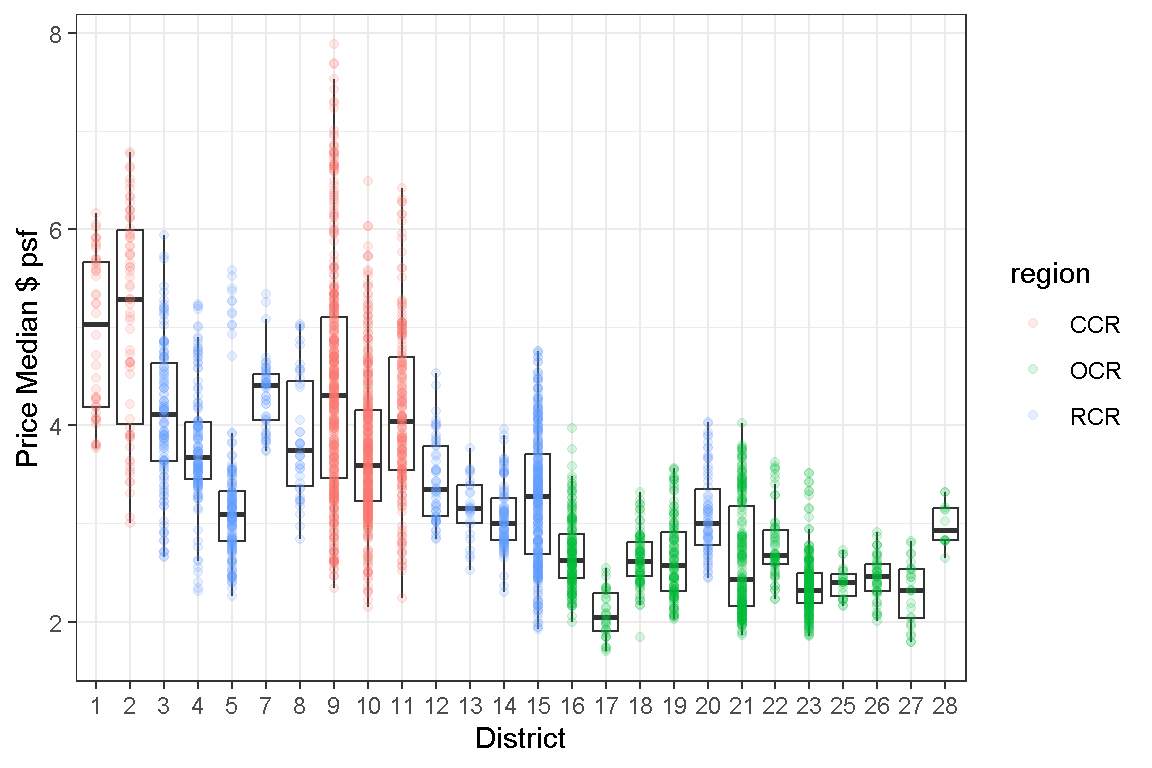
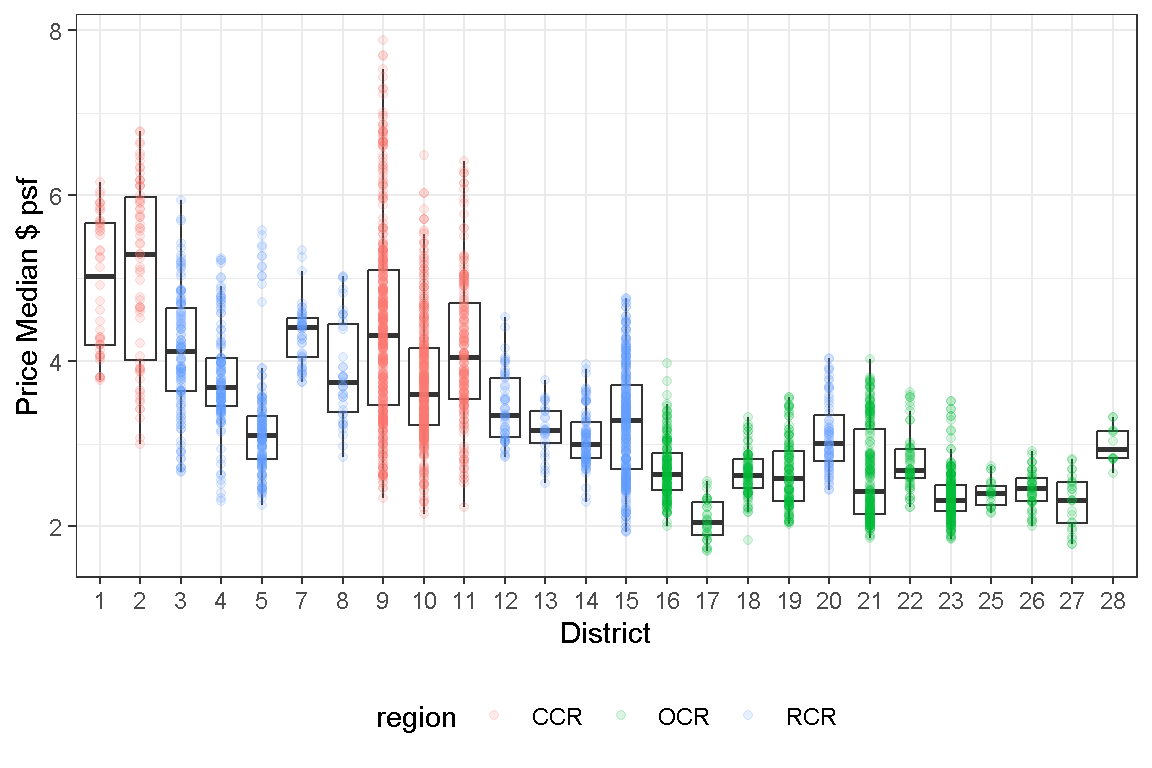
ml3

diff --git a/docs/ml/2024-02-09-hdb-rental-prices/index.html b/docs/ml/2024-02-09-hdb-rental-prices/index.html
@@ -90,6 +90,7 @@ code span.wa { color: #5e5e5e; font-style: italic; } /* Warning */
   <!--radix_placeholder_meta_tags-->
 <title>maRk's blog: HDB Rental Prices</title>
 
+<meta property="description" itemprop="description" content="Let&#39;s try and predict the mediaa rental price per sqft of HDA flats given information about their location, age, distance to MRT station...."/>
 
 <link rel="canonical" href="https://yeokcmark.netlify.app/ml/2024-02-09-hdb-rental-prices/"/>
 
@@ -101,6 +102,7 @@ code span.wa { color: #5e5e5e; font-style: italic; } /* Warning */
 <!--  https://developers.facebook.com/docs/sharing/webmasters#markup -->
 <meta property="og:title" content="maRk&#39;s blog: HDB Rental Prices"/>
 <meta property="og:type" content="article"/>
+<meta property="og:description" content="Let&#39;s try and predict the mediaa rental price per sqft of HDA flats given information about their location, age, distance to MRT station...."/>
 <meta property="og:url" content="https://yeokcmark.netlify.app/ml/2024-02-09-hdb-rental-prices/"/>
 <meta property="og:image" content="https://yeokcmark.netlify.app/ml/2024-02-09-hdb-rental-prices/hdb-rental-prices_files/figure-html5/unnamed-chunk-13-1.png"/>
 <meta property="og:image:width" content="1152"/>
@@ -111,6 +113,7 @@ code span.wa { color: #5e5e5e; font-style: italic; } /* Warning */
 <!--  https://dev.twitter.com/cards/types/summary -->
 <meta property="twitter:card" content="summary_large_image"/>
 <meta property="twitter:title" content="maRk&#39;s blog: HDB Rental Prices"/>
+<meta property="twitter:description" content="Let&#39;s try and predict the mediaa rental price per sqft of HDA flats given information about their location, age, distance to MRT station...."/>
 <meta property="twitter:url" content="https://yeokcmark.netlify.app/ml/2024-02-09-hdb-rental-prices/"/>
 <meta property="twitter:image" content="https://yeokcmark.netlify.app/ml/2024-02-09-hdb-rental-prices/hdb-rental-prices_files/figure-html5/unnamed-chunk-13-1.png"/>
 <meta property="twitter:image:width" content="1152"/>
@@ -126,7 +129,7 @@ code span.wa { color: #5e5e5e; font-style: italic; } /* Warning */
   <!--radix_placeholder_rmarkdown_metadata-->
 
 <script type="text/json" id="radix-rmarkdown-metadata">
-{"type":"list","attributes":{"names":{"type":"character","attributes":{},"value":["title","author","date","categories","output","citation_url","canonical_url"]}},"value":[{"type":"character","attributes":{},"value":["HDB Rental Prices"]},{"type":"list","attributes":{},"value":[{"type":"list","attributes":{"names":{"type":"character","attributes":{},"value":["name"]}},"value":[{"type":"character","attributes":{},"value":["Mark Y"]}]}]},{"type":"character","attributes":{},"value":["2024-02-09"]},{"type":"character","attributes":{},"value":["regression","linear regression","random forest","knn","xgboost"]},{"type":"list","attributes":{"names":{"type":"character","attributes":{},"value":["distill::distill_article"]}},"value":[{"type":"list","attributes":{"names":{"type":"character","attributes":{},"value":["toc","toc_depth","toc_float","self_contained"]}},"value":[{"type":"logical","attributes":{},"value":[true]},{"type":"integer","attributes":{},"value":[6]},{"type":"logical","attributes":{},"value":[true]},{"type":"logical","attributes":{},"value":[false]}]}]},{"type":"character","attributes":{},"value":["https://yeokcmark.netlify.app/ml/2024-02-09-hdb-rental-prices/"]},{"type":"character","attributes":{},"value":["https://yeokcmark.netlify.app/ml/2024-02-09-hdb-rental-prices/"]}]}
+{"type":"list","attributes":{"names":{"type":"character","attributes":{},"value":["title","description","author","date","categories","output","citation_url","canonical_url"]}},"value":[{"type":"character","attributes":{},"value":["HDB Rental Prices"]},{"type":"character","attributes":{},"value":["Let's try and predict the mediaa rental price per sqft of HDA flats given information about their location, age, distance to MRT station...."]},{"type":"list","attributes":{},"value":[{"type":"list","attributes":{"names":{"type":"character","attributes":{},"value":["name"]}},"value":[{"type":"character","attributes":{},"value":["Mark Y"]}]}]},{"type":"character","attributes":{},"value":["2024-02-09"]},{"type":"character","attributes":{},"value":["regression","linear regression","random forest","knn","xgboost"]},{"type":"list","attributes":{"names":{"type":"character","attributes":{},"value":["distill::distill_article"]}},"value":[{"type":"list","attributes":{"names":{"type":"character","attributes":{},"value":["toc","toc_depth","toc_float","self_contained"]}},"value":[{"type":"logical","attributes":{},"value":[true]},{"type":"integer","attributes":{},"value":[6]},{"type":"logical","attributes":{},"value":[true]},{"type":"logical","attributes":{},"value":[false]}]}]},{"type":"character","attributes":{},"value":["https://yeokcmark.netlify.app/ml/2024-02-09-hdb-rental-prices/"]},{"type":"character","attributes":{},"value":["https://yeokcmark.netlify.app/ml/2024-02-09-hdb-rental-prices/"]}]}
 </script>
 <!--/radix_placeholder_rmarkdown_metadata-->
   
@@ -26266,7 +26269,7 @@ date {
 <!--radix_placeholder_front_matter-->
 
 <script id="distill-front-matter" type="text/json">
-{"title":"HDB Rental Prices","authors":[{"author":"Mark Y","authorURL":"#","affiliation":"&nbsp;","affiliationURL":"#","orcidID":""}],"publishedDate":"2024-02-09T00:00:00.000+08:00","citationText":"Y, 2024"}
+{"title":"HDB Rental Prices","description":"Let's try and predict the mediaa rental price per sqft of HDA flats given information about their location, age, distance to MRT station....","authors":[{"author":"Mark Y","authorURL":"#","affiliation":"&nbsp;","affiliationURL":"#","orcidID":""}],"publishedDate":"2024-02-09T00:00:00.000+08:00","citationText":"Y, 2024"}
 </script>
 
 <!--/radix_placeholder_front_matter-->
@@ -26346,7 +26349,7 @@ Nikkei225
   <a href="../../ml.html#category:xgboost" class="dt-tag">xgboost</a>
 </div>
 <!--/radix_placeholder_categories-->
-
+<p><p>Let’s try and predict the mediaa rental price per sqft of HDA flats given information about their location, age, distance to MRT station….</p></p>
 </div>
 
 <div class="d-byline">
@@ -26466,7 +26469,8 @@ Nikkei225
 <span>  <span class='fu'>geom_point</span><span class='op'>(</span>alpha <span class='op'>=</span> <span class='fl'>0.15</span>, <span class='fu'>aes</span><span class='op'>(</span>color <span class='op'>=</span> <span class='va'>region</span><span class='op'>)</span><span class='op'>)</span><span class='op'>+</span></span>
 <span>  <span class='fu'>theme_bw</span><span class='op'>(</span><span class='op'>)</span> <span class='op'>+</span></span>
 <span>  <span class='fu'>labs</span><span class='op'>(</span>x <span class='op'>=</span> <span class='st'>"District"</span>,</span>
-<span>       y <span class='op'>=</span> <span class='st'>"Price Median $ psf"</span><span class='op'>)</span></span></code></pre>
+<span>       y <span class='op'>=</span> <span class='st'>"Price Median $ psf"</span><span class='op'>)</span><span class='op'>+</span></span>
+<span>  <span class='fu'>theme</span><span class='op'>(</span>legend.position <span class='op'>=</span> <span class='st'>"bottom"</span><span class='op'>)</span></span></code></pre>
 </div>
 <p><img src="hdb-rental-prices_files/figure-html5/unnamed-chunk-5-1.png" width="576" /></p>
 </div>
@@ -26478,7 +26482,7 @@ Nikkei225
 <span>             y <span class='op'>=</span> <span class='va'>price_median</span>,</span>
 <span>             color <span class='op'>=</span> <span class='va'>region</span><span class='op'>)</span></span>
 <span>         <span class='op'>)</span> <span class='op'>+</span></span>
-<span>  <span class='fu'>geom_point</span><span class='op'>(</span><span class='op'>)</span> <span class='op'>+</span></span>
+<span>  <span class='fu'>geom_point</span><span class='op'>(</span>alpha <span class='op'>=</span> <span class='fl'>0.2</span><span class='op'>)</span> <span class='op'>+</span></span>
 <span>  <span class='fu'>geom_smooth</span><span class='op'>(</span><span class='fu'>aes</span><span class='op'>(</span>color <span class='op'>=</span> <span class='va'>region</span><span class='op'>)</span>,</span>
 <span>              method <span class='op'>=</span> <span class='st'>"lm"</span><span class='op'>)</span><span class='op'>+</span></span>
 <span>  <span class='fu'>theme_bw</span><span class='op'>(</span><span class='op'>)</span><span class='op'>+</span></span>

diff --git a/_ml/2024-02-09-hdb-rental-prices/hdb-rental-prices.html b/_ml/2024-02-09-hdb-rental-prices/hdb-rental-prices.html
@@ -90,6 +90,7 @@ code span.wa { color: #5e5e5e; font-style: italic; } /* Warning */
   <!--radix_placeholder_meta_tags-->
   <title>HDB Rental Prices</title>
 
+  <meta property="description" itemprop="description" content="Let&#39;s try and predict the mediaa rental price per sqft of HDA flats given information about their location, age, distance to MRT station...."/>
 
 
   <!--  https://schema.org/Article -->
@@ -100,17 +101,19 @@ code span.wa { color: #5e5e5e; font-style: italic; } /* Warning */
   <!--  https://developers.facebook.com/docs/sharing/webmasters#markup -->
   <meta property="og:title" content="HDB Rental Prices"/>
   <meta property="og:type" content="article"/>
+  <meta property="og:description" content="Let&#39;s try and predict the mediaa rental price per sqft of HDA flats given information about their location, age, distance to MRT station...."/>
   <meta property="og:locale" content="en_US"/>
 
   <!--  https://dev.twitter.com/cards/types/summary -->
   <meta property="twitter:card" content="summary"/>
   <meta property="twitter:title" content="HDB Rental Prices"/>
+  <meta property="twitter:description" content="Let&#39;s try and predict the mediaa rental price per sqft of HDA flats given information about their location, age, distance to MRT station...."/>
 
   <!--/radix_placeholder_meta_tags-->
   <!--radix_placeholder_rmarkdown_metadata-->
 
   <script type="text/json" id="radix-rmarkdown-metadata">
-  {"type":"list","attributes":{"names":{"type":"character","attributes":{},"value":["title","author","date","categories","output"]}},"value":[{"type":"character","attributes":{},"value":["HDB Rental Prices"]},{"type":"list","attributes":{},"value":[{"type":"list","attributes":{"names":{"type":"character","attributes":{},"value":["name"]}},"value":[{"type":"character","attributes":{},"value":["Mark Y"]}]}]},{"type":"character","attributes":{},"value":["2024-02-09"]},{"type":"character","attributes":{},"value":["regression","linear regression","random forest","knn","xgboost"]},{"type":"list","attributes":{"names":{"type":"character","attributes":{},"value":["distill::distill_article"]}},"value":[{"type":"list","attributes":{"names":{"type":"character","attributes":{},"value":["toc","toc_depth","toc_float","self_contained"]}},"value":[{"type":"logical","attributes":{},"value":[true]},{"type":"integer","attributes":{},"value":[6]},{"type":"logical","attributes":{},"value":[true]},{"type":"logical","attributes":{},"value":[false]}]}]}]}
+  {"type":"list","attributes":{"names":{"type":"character","attributes":{},"value":["title","description","author","date","categories","output"]}},"value":[{"type":"character","attributes":{},"value":["HDB Rental Prices"]},{"type":"character","attributes":{},"value":["Let's try and predict the mediaa rental price per sqft of HDA flats given information about their location, age, distance to MRT station....\n"]},{"type":"list","attributes":{},"value":[{"type":"list","attributes":{"names":{"type":"character","attributes":{},"value":["name"]}},"value":[{"type":"character","attributes":{},"value":["Mark Y"]}]}]},{"type":"character","attributes":{},"value":["2024-02-09"]},{"type":"character","attributes":{},"value":["regression","linear regression","random forest","knn","xgboost"]},{"type":"list","attributes":{"names":{"type":"character","attributes":{},"value":["distill::distill_article"]}},"value":[{"type":"list","attributes":{"names":{"type":"character","attributes":{},"value":["toc","toc_depth","toc_float","self_contained"]}},"value":[{"type":"logical","attributes":{},"value":[true]},{"type":"integer","attributes":{},"value":[6]},{"type":"logical","attributes":{},"value":[true]},{"type":"logical","attributes":{},"value":[false]}]}]}]}
   </script>
   <!--/radix_placeholder_rmarkdown_metadata-->
   
@@ -1518,7 +1521,7 @@ code span.wa { color: #5e5e5e; font-style: italic; } /* Warning */
 <!--radix_placeholder_front_matter-->
 
 <script id="distill-front-matter" type="text/json">
-{"title":"HDB Rental Prices","authors":[{"author":"Mark Y","authorURL":"#","affiliation":"&nbsp;","affiliationURL":"#","orcidID":""}],"publishedDate":"2024-02-09T00:00:00.000+08:00","citationText":"Y, 2024"}
+{"title":"HDB Rental Prices","description":"Let's try and predict the mediaa rental price per sqft of HDA flats given information about their location, age, distance to MRT station....","authors":[{"author":"Mark Y","authorURL":"#","affiliation":"&nbsp;","affiliationURL":"#","orcidID":""}],"publishedDate":"2024-02-09T00:00:00.000+08:00","citationText":"Y, 2024"}
 </script>
 
 <!--/radix_placeholder_front_matter-->
@@ -1539,7 +1542,7 @@ code span.wa { color: #5e5e5e; font-style: italic; } /* Warning */
 <div class="dt-tag">xgboost</div>
 </div>
 <!--/radix_placeholder_categories-->
-
+<p><p>Let’s try and predict the mediaa rental price per sqft of HDA flats given information about their location, age, distance to MRT station….</p></p>
 </div>
 
 <div class="d-byline">
@@ -1659,7 +1662,8 @@ code span.wa { color: #5e5e5e; font-style: italic; } /* Warning */
 <span>  <span class='fu'>geom_point</span><span class='op'>(</span>alpha <span class='op'>=</span> <span class='fl'>0.15</span>, <span class='fu'>aes</span><span class='op'>(</span>color <span class='op'>=</span> <span class='va'>region</span><span class='op'>)</span><span class='op'>)</span><span class='op'>+</span></span>
 <span>  <span class='fu'>theme_bw</span><span class='op'>(</span><span class='op'>)</span> <span class='op'>+</span></span>
 <span>  <span class='fu'>labs</span><span class='op'>(</span>x <span class='op'>=</span> <span class='st'>"District"</span>,</span>
-<span>       y <span class='op'>=</span> <span class='st'>"Price Median $ psf"</span><span class='op'>)</span></span></code></pre>
+<span>       y <span class='op'>=</span> <span class='st'>"Price Median $ psf"</span><span class='op'>)</span><span class='op'>+</span></span>
+<span>  <span class='fu'>theme</span><span class='op'>(</span>legend.position <span class='op'>=</span> <span class='st'>"bottom"</span><span class='op'>)</span></span></code></pre>
 </div>
 <p><img src="hdb-rental-prices_files/figure-html5/unnamed-chunk-5-1.png" width="576" /></p>
 </div>
@@ -1671,7 +1675,7 @@ code span.wa { color: #5e5e5e; font-style: italic; } /* Warning */
 <span>             y <span class='op'>=</span> <span class='va'>price_median</span>,</span>
 <span>             color <span class='op'>=</span> <span class='va'>region</span><span class='op'>)</span></span>
 <span>         <span class='op'>)</span> <span class='op'>+</span></span>
-<span>  <span class='fu'>geom_point</span><span class='op'>(</span><span class='op'>)</span> <span class='op'>+</span></span>
+<span>  <span class='fu'>geom_point</span><span class='op'>(</span>alpha <span class='op'>=</span> <span class='fl'>0.2</span><span class='op'>)</span> <span class='op'>+</span></span>
 <span>  <span class='fu'>geom_smooth</span><span class='op'>(</span><span class='fu'>aes</span><span class='op'>(</span>color <span class='op'>=</span> <span class='va'>region</span><span class='op'>)</span>,</span>
 <span>              method <span class='op'>=</span> <span class='st'>"lm"</span><span class='op'>)</span><span class='op'>+</span></span>
 <span>  <span class='fu'>theme_bw</span><span class='op'>(</span><span class='op'>)</span><span class='op'>+</span></span>

diff --git a/docs/ml.html b/docs/ml.html
@@ -108,7 +108,7 @@ code span.wa { color: #5e5e5e; font-style: italic; } /* Warning */
   <!--radix_placeholder_rmarkdown_metadata-->
 
   <script type="text/json" id="radix-rmarkdown-metadata">
-  {"type":"list","attributes":{"names":{"type":"character","attributes":{},"value":["title","site","toc","listing"]}},"value":[{"type":"character","attributes":{},"value":["Machine LeaRning"]},{"type":"character","attributes":{},"value":["distill::distill_website"]},{"type":"logical","attributes":{},"value":[false]},{"type":"character","attributes":{},"value":["ml"]}]}
+  {"type":"list","attributes":{"names":{"type":"character","attributes":{},"value":["title","output","listing"]}},"value":[{"type":"character","attributes":{},"value":["Machine LeaRning"]},{"type":"list","attributes":{"names":{"type":"character","attributes":{},"value":["distill::distill_article"]}},"value":[{"type":"list","attributes":{"names":{"type":"character","attributes":{},"value":["toc"]}},"value":[{"type":"logical","attributes":{},"value":[false]}]}]},{"type":"character","attributes":{},"value":["ml"]}]}
   </script>
   <!--/radix_placeholder_rmarkdown_metadata-->
   <!--radix_placeholder_navigation_in_header-->
@@ -26457,7 +26457,7 @@ function init_posts_list() {
 </div>
 <div class="description">
 <h2>HDB Rental Prices</h2>
-<p></p>
+<p>Let's try and predict the mediaa rental price per sqft of HDA flats given information about their location, age, distance to MRT station....</p>
 </div>
 </a>
 </div>
@@ -26508,6 +26508,15 @@ function init_posts_list() {
 
 
 <div class="d-article">
+<div class="layout-chunk" data-layout="l-body">
+<style type="text/css">
+d-title {
+  display:none;
+  margin:0;
+}
+
+</style>
+</div>
 <p><br>
 I started Module 1 of SMU Academy’s <a href="https://academy.smu.edu.sg/predictive-analytics-and-machine-learning-6916">Predictive Analytics and Machine Learning</a> class in January 2024. This blog will serve as a repository for various Machine Learning projects I embark on.</p>
 <div class="sourceCode" id="cb1"><pre class="sourceCode r distill-force-highlighting-css"><code class="sourceCode r"></code></pre></div>

diff --git a/docs/nikkei225.html b/docs/nikkei225.html
@@ -27773,6 +27773,15 @@ function init_posts_list() {
 
 
 <div class="d-article">
+<div class="layout-chunk" data-layout="l-body">
+<style type="text/css">
+d-title {
+  display:none;
+  margin:0;
+}
+
+</style>
+</div>
 <p><br></p>
 <center>
 <FONT COLOR="#ff0000">Check <a href="calculate_gamma_exposure_profile_nikkei225.html">here</a> for the article on “How to calculate Gamma Exposure Profile”</FONT>

diff --git a/bootstrap.css b/bootstrap.css
@@ -11928,7 +11928,7 @@ th {
 }
 
 d-title {
-  display:none;
+  visibility: hidden;
   margin:0;
 }
 description {
